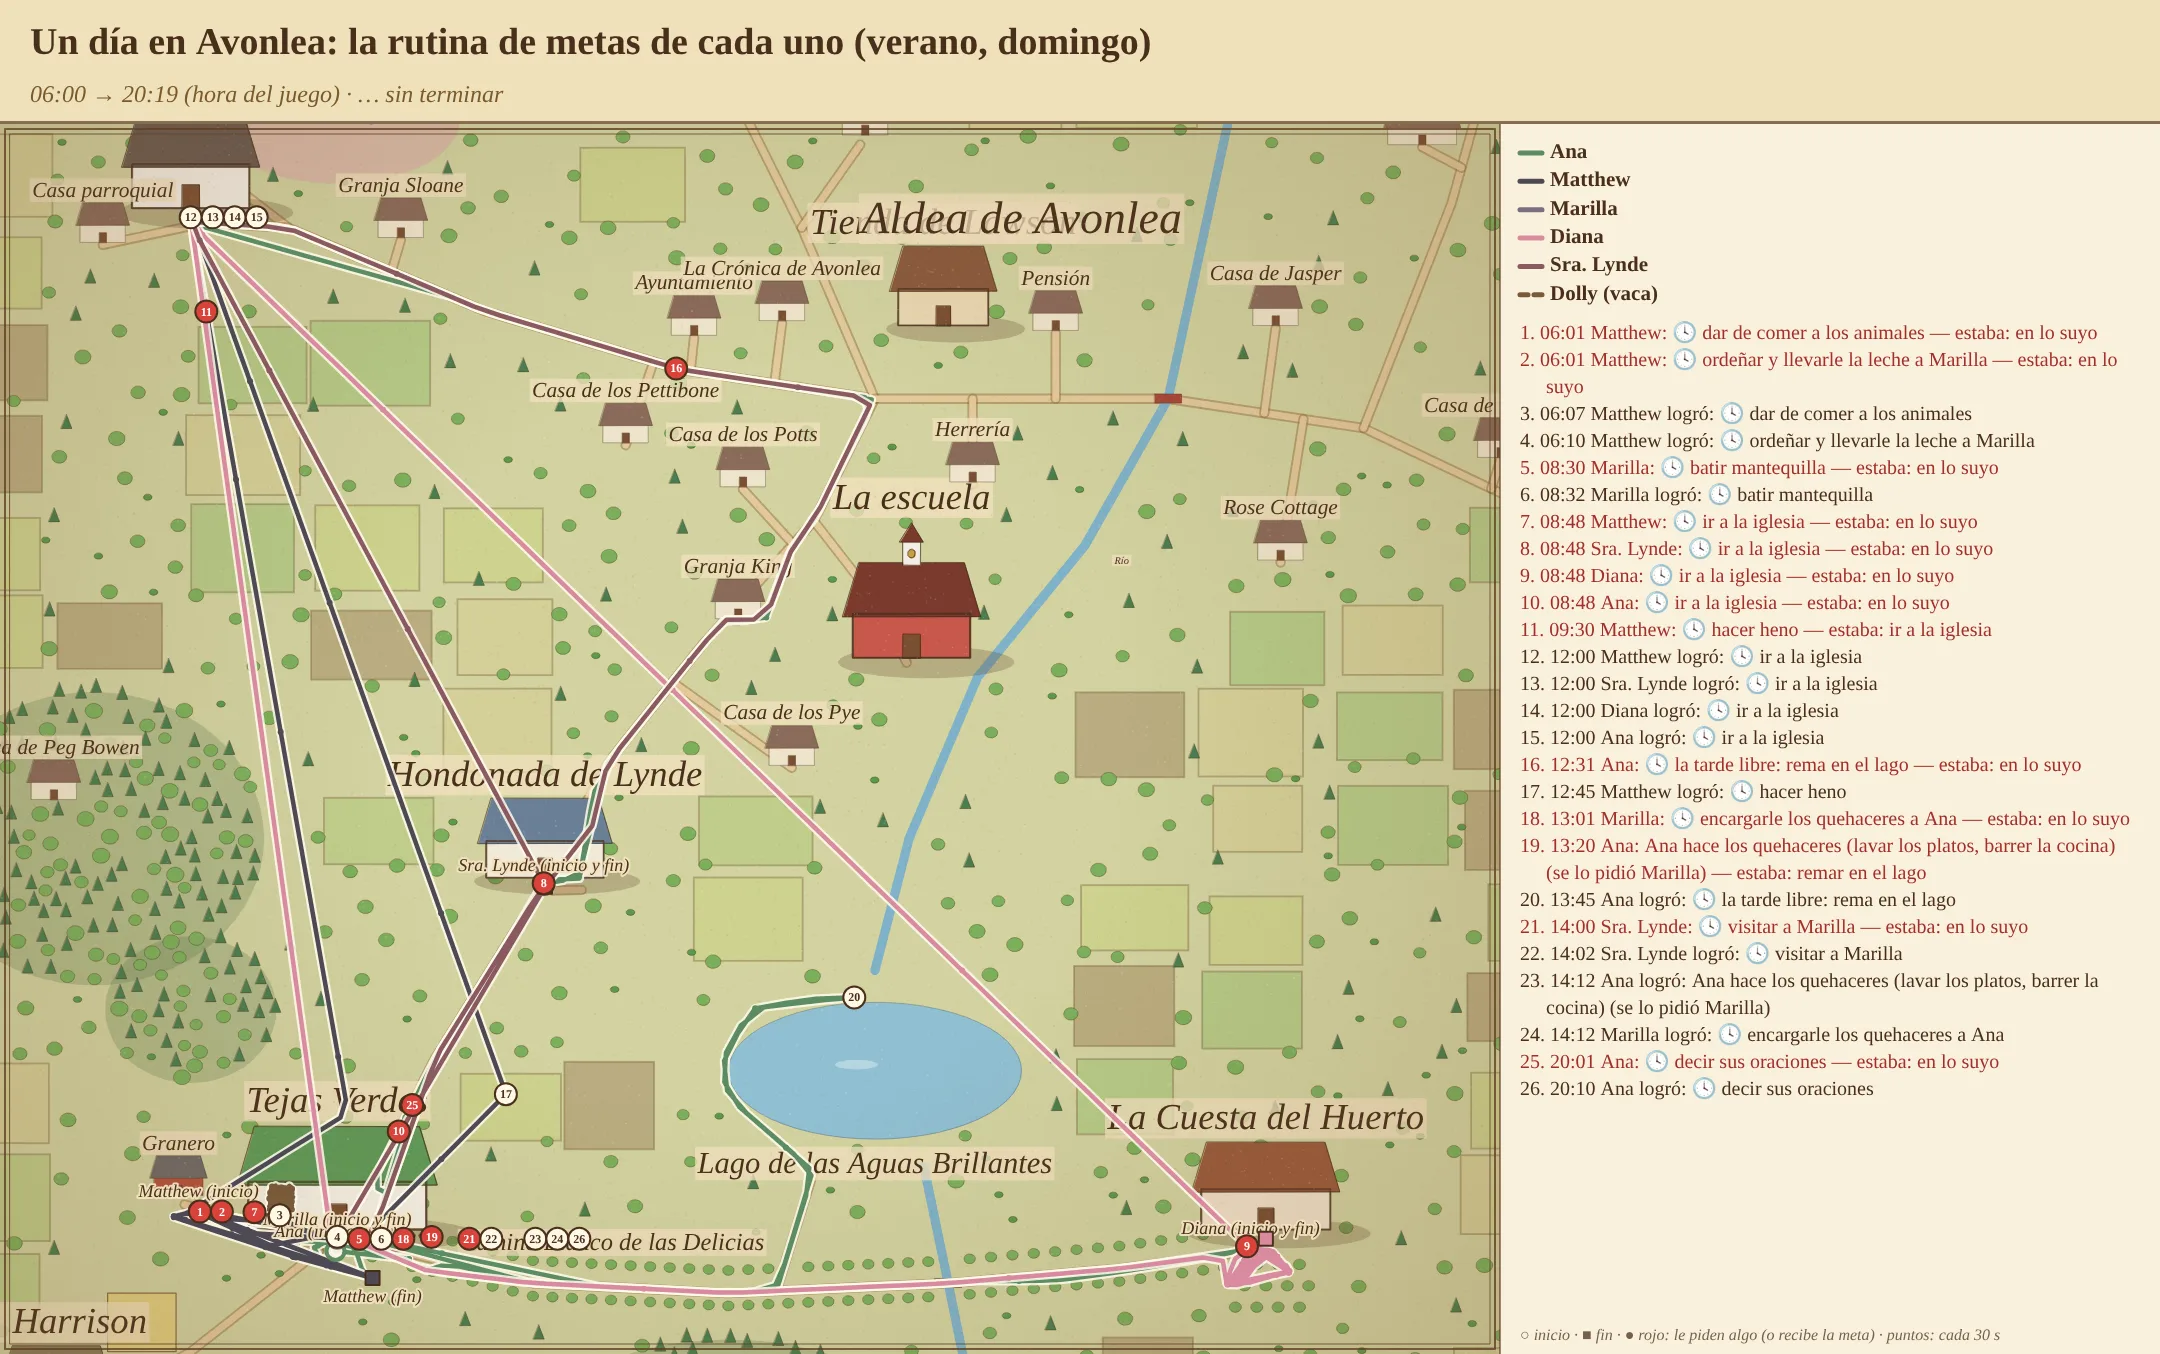
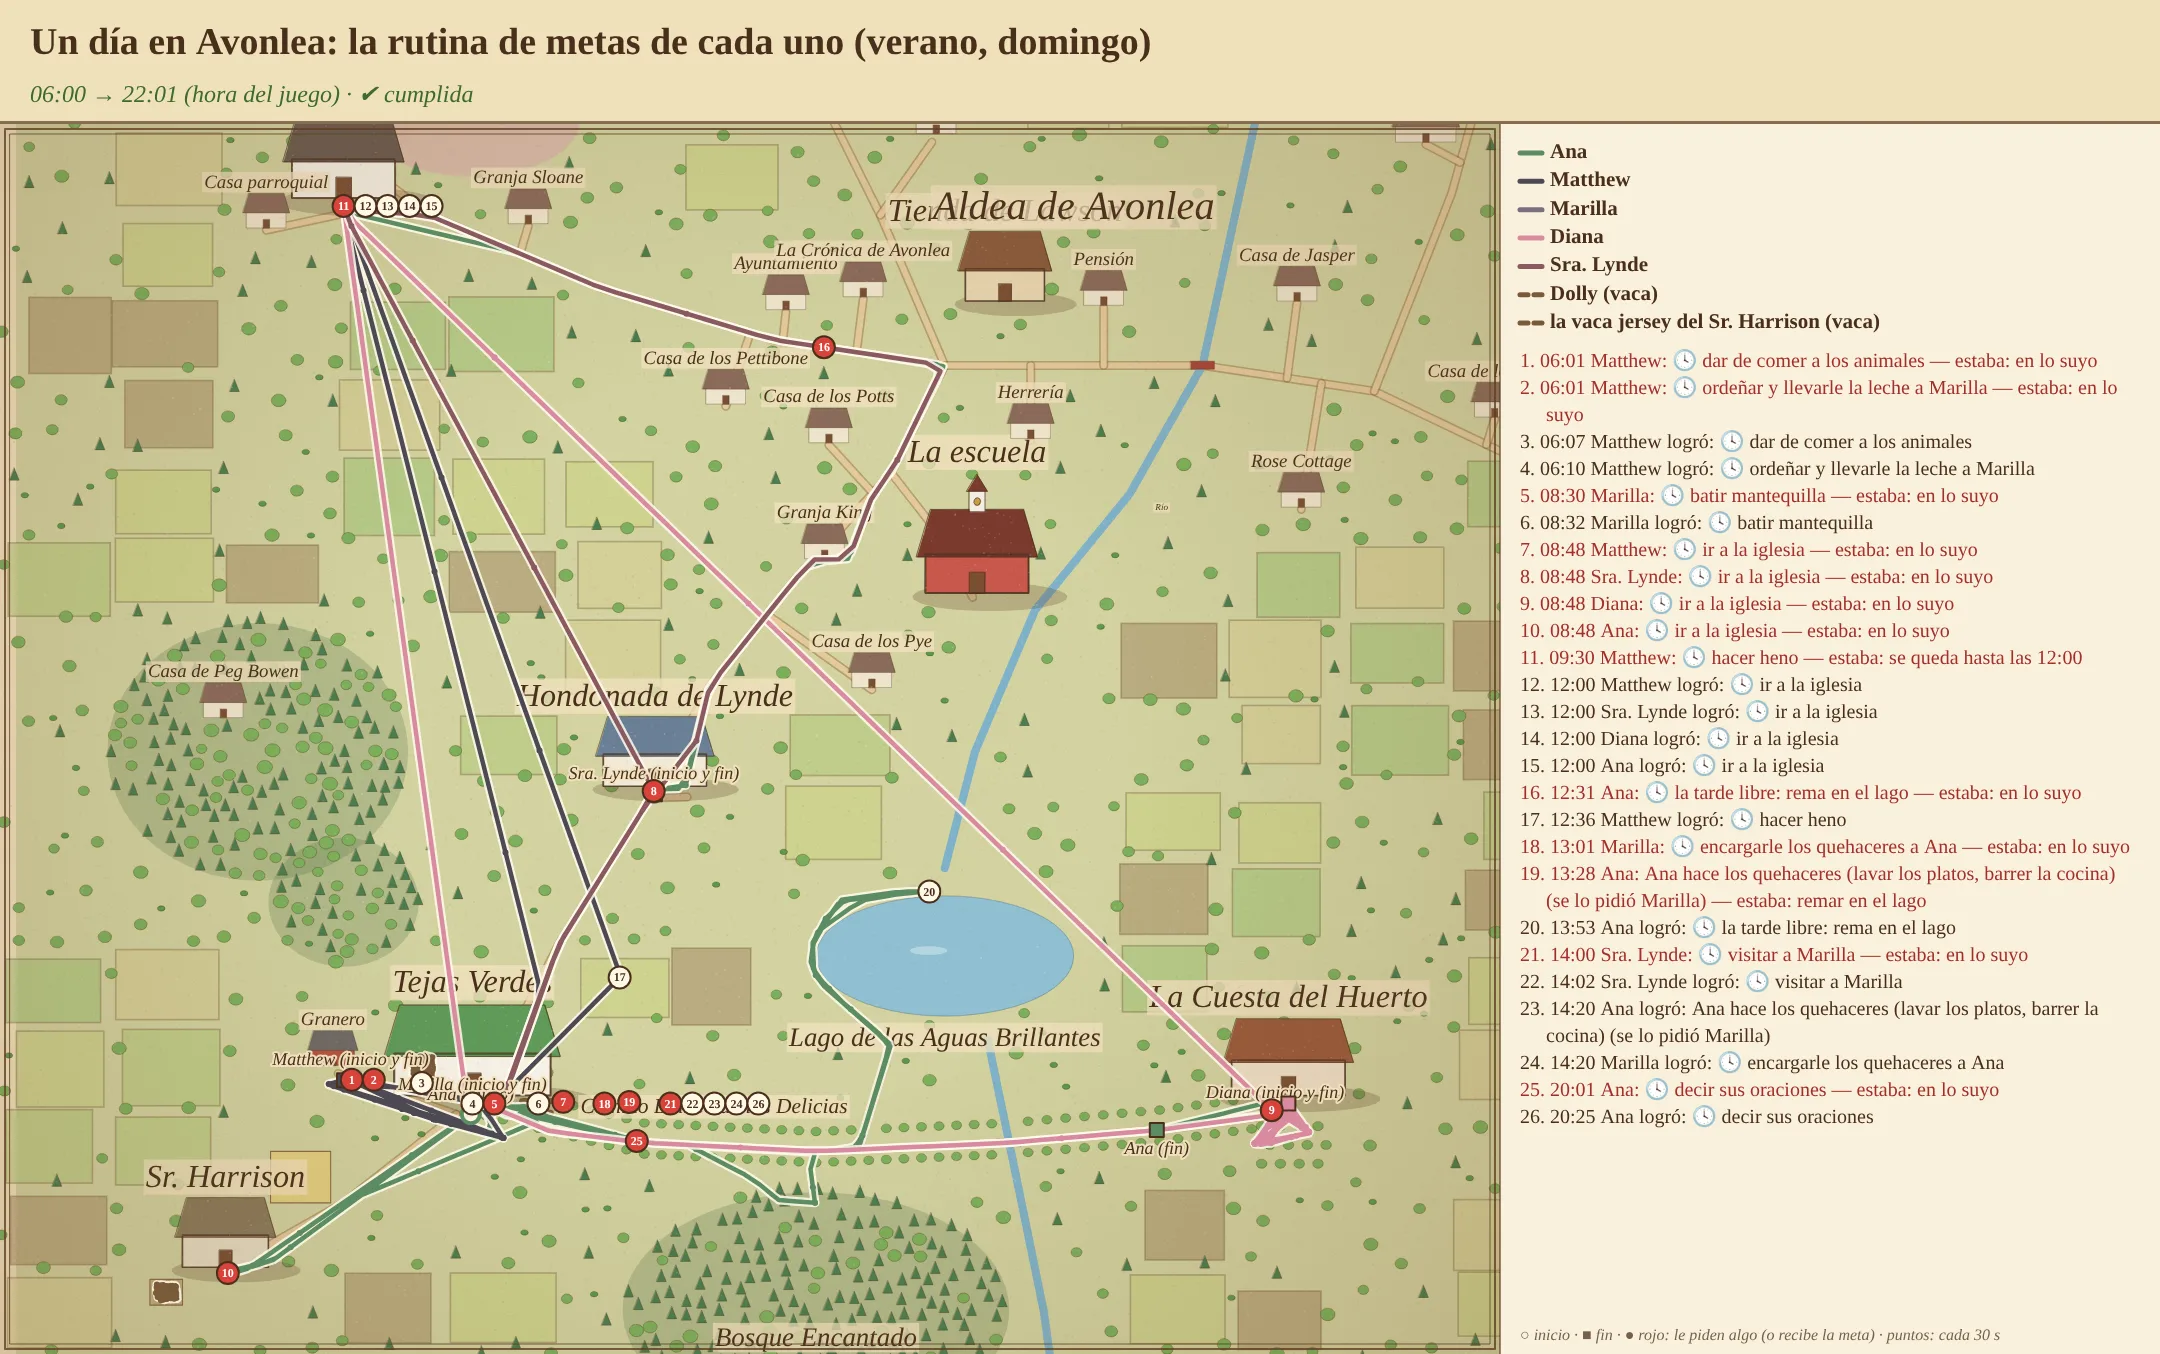
Trazas: el domingo completo hasta las 22
Claude-Session: https://claude.ai/code/session_01VY3w9XmL1TrbHxLtQe81Lv

diff --git a/tools/trace_goal.js b/tools/trace_goal.js
@@ -55,7 +55,7 @@ const exe = process.env.PLAYWRIGHT_CHROMIUM || (fs.existsSync('/opt/pw-browsers/
     const wmN = k => A.wmName(k);
     for (const k of keys) doing[k] = A.AGENTS[k] ? A.doingText(k) : null;
     const h0 = A.hourNow(); let t = 0; sample(0);
-    for (const lim = dia ? Math.max(maxT, 9000) : maxT; t < lim && (ag.st === 'run' || ag.st === 'pausa'); t += .5) { A.step(.5); sample(t + .5); }
+    for (const lim = dia ? Math.max(maxT, 16000) : maxT; t < lim && (ag.st === 'run' || ag.st === 'pausa'); t += .5) { A.step(.5); sample(t + .5); }
     for (let k = 0; k < 4; k++) { A.step(.5); sample(t += .5); }
     // who to draw: those who had goals, were named in what happened, or led a cow; and the cows that moved
     const moved = P => P.length > 1 && P.some(q => Math.hypot(q[0] - P[0][0], q[1] - P[0][1]) > 60);
